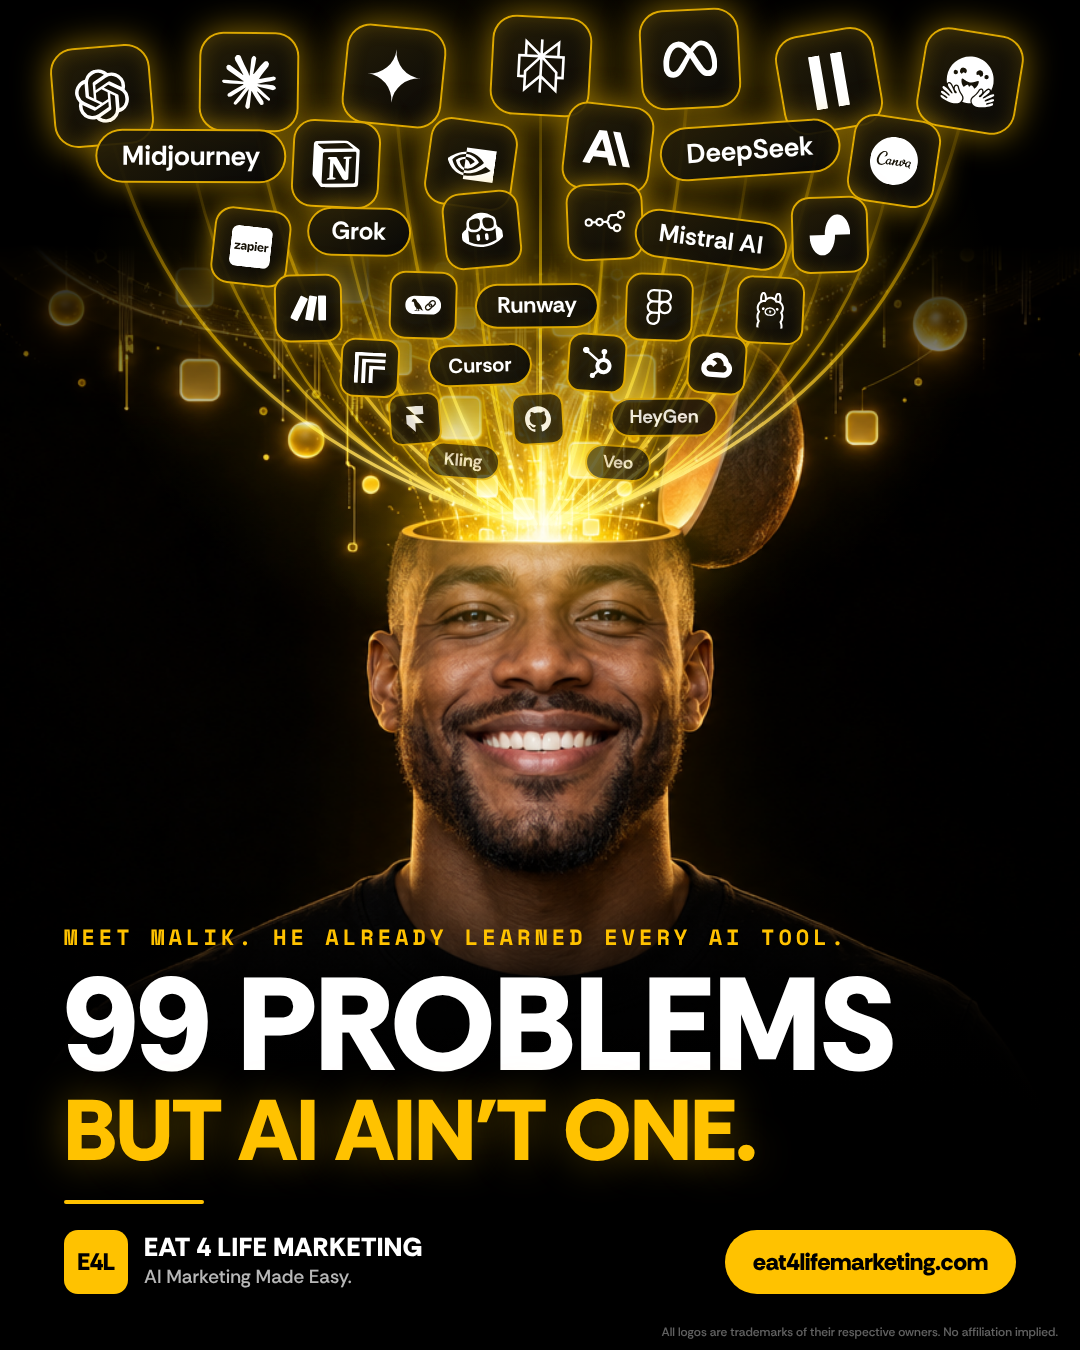
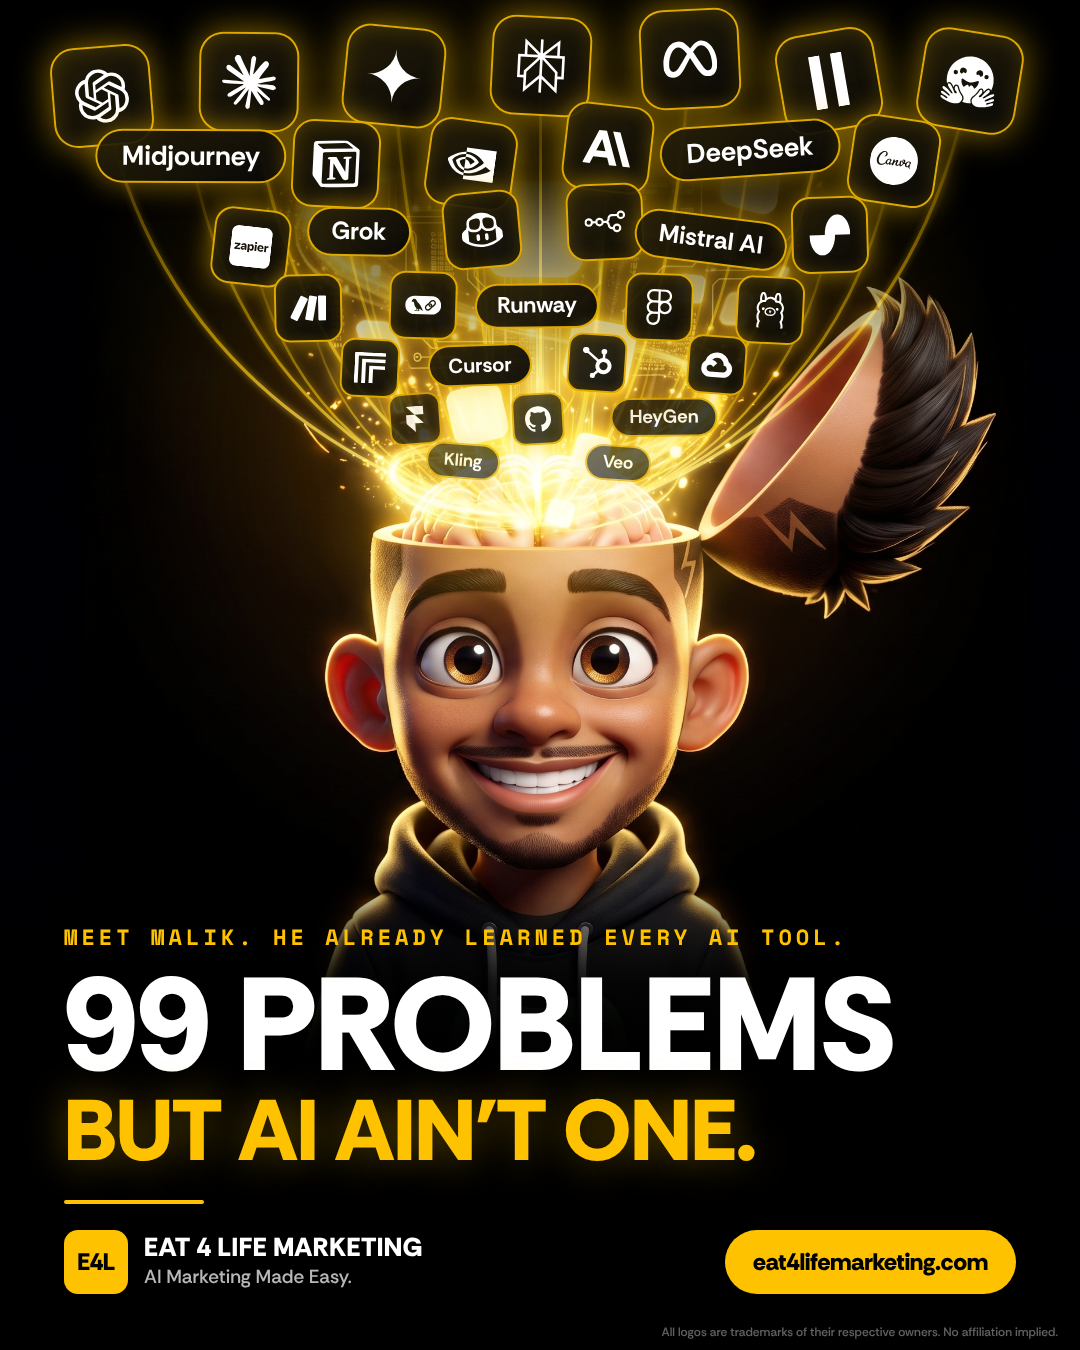
Ad 01: swap stand-in for the real Malik character from Higgsfield
Claude-Session: https://claude.ai/code/session_01WzfzhZGHanDgshhHRmAous

diff --git a/ads/01-malik-all-knowing/ad.html b/ads/01-malik-all-knowing/ad.html
@@ -6,7 +6,7 @@
 <title>Malik All-Knowing Ad</title>
 <!--
   E4L Ad 01: "Malik knows it all"
-  Usage: open ad.html?fmt=feed|square|story&logos=1|0&hero=v1..v4
+  Usage: open ad.html?fmt=feed|square|story&logos=1|0&hero=m2 (or v1..v4 stock)
   feed = 1080x1350 (IG/FB 4:5), square = 1080x1080, story = 1080x1920 (Reels/Stories/TikTok)
   logos=0 renders the "ad-platform safe" version with no third-party logos.
 -->
@@ -103,7 +103,7 @@
 </head>
 <body>
 <div id="ad" class="ad">
-  <img id="hero" class="hero" alt="Malik smiling with the top of his head open as AI tools pour in">
+  <img id="hero" class="hero" alt="Malik, the E4L mascot, smiling with the top of his head open as AI tools pour in">
   <div class="haze"></div>
   <svg class="streams" id="streams"></svg>
   <div id="funnel"></div>
@@ -127,16 +127,17 @@
   const q = new URLSearchParams(location.search);
   const fmt = q.get('fmt') || 'feed';
   const showLogos = q.get('logos') !== '0';
-  const heroName = q.get('hero') || 'v4';
+  const heroName = q.get('hero') || 'm2';
 
   // Skull-opening position inside each 1280x720 render (measured by eye).
-  const OPEN = { v1: [638, 212], v2: [630, 226], v3: [655, 200], v4: [630, 228] };
+  // m* = real Malik (Higgsfield character), v* = early stock stand-ins.
+  const OPEN = { m2: [642, 290], v1: [638, 212], v2: [630, 226], v3: [655, 200], v4: [630, 228] };
 
   // Per-format layout: hero scale, where the opening lands, funnel top/width, headline sizes.
   const L = {
     feed:   { h: 1350, s: 1.25, ox: 540, oy: 530, top: 60,  half: 405, scale: 1.0,  h1: 132, h2: 86 },
     square: { h: 1080, s: 1.05, ox: 540, oy: 392, top: 46,  half: 425, scale: 0.78, h1: 104, h2: 68 },
-    story:  { h: 1920, s: 1.5,  ox: 540, oy: 820, top: 120, half: 400, scale: 1.12, h1: 140, h2: 92 },
+    story:  { h: 1920, s: 1.35, ox: 540, oy: 840, top: 120, half: 400, scale: 1.12, h1: 140, h2: 92 },
   }[fmt];
 
   const ad = document.getElementById('ad');
@@ -148,7 +149,7 @@
 
   const hero = document.getElementById('hero');
   const [hx, hy] = OPEN[heroName];
-  hero.src = `renders/malik-${heroName}.png`;
+  hero.src = heroName.startsWith('v') ? `renders-stock/malik-${heroName}.png` : `renders/malik-${heroName}.png`;
   hero.style.width = (1280 * L.s) + 'px';
   hero.style.left = (L.ox - hx * L.s) + 'px';
   hero.style.top = (L.oy - hy * L.s) + 'px';

diff --git a/ads/01-malik-all-knowing/README.md b/ads/01-malik-all-knowing/README.md
@@ -21,11 +21,13 @@ Malik smiles at the viewer while the top of his head swings open. Logos from acr
 
 ## Editing
 - `ad.html` is the template. Open `ad.html?fmt=feed|square|story&logos=1|0&hero=v1..v4`.
-- `renders/` holds four AI-generated hero variations. v4 is the current pick.
+- `renders/` holds four hero renders of the real Malik, made in Higgsfield from his saved character element ("Malik", Main character of the E4L Story). m2 is the current pick.
+- `renders-stock/` holds the first-pass stand-in renders (not Malik). Keep for reference only.
+- `reference/malik-higgsfield.png` is Malik's character reference sheet image.
 - The brand list lives in the `rows` array in `ad.html`. Icon names match files in `logos/`. Names starting with `#` render as text pills.
 - The E4L square is a stand-in. Swap in the real logo file when it is in the repo.
-- Re-export: `node render.mjs [v1|v2|v3|v4]` (set `PW_PATH` to a Playwright install if it is not local).
+- Re-export: `node render.mjs [m2]` (set `PW_PATH` to a Playwright install if it is not local).
 
 ## Notes
-- Malik in these renders is an AI-generated stand-in. To use a real person as Malik, use photos of them so the face stays the same across ads.
+- Malik is the 3D animated E4L mascot. Generate him in Higgsfield with the "Malik" element (id 098c3fb7-8cdf-401e-9c58-09c9dd0742af) so he stays on-model: spiky black hair, lightning bolt fade, thin mustache and chin beard, black hoodie with green controller.
 - Logo SVGs come from Simple Icons. Using other companies' logos in paid ads can read as an endorsement and can get flagged in review. The logo version carries a small trademark line. The no-logos version is the safe fallback.
